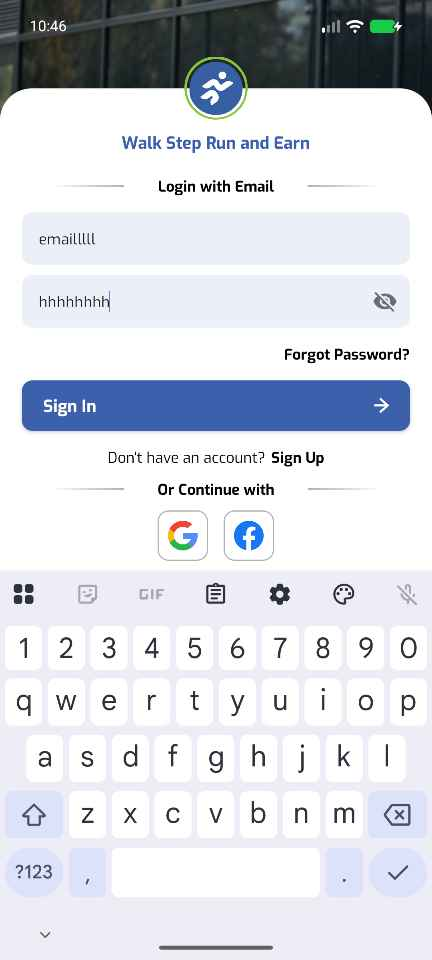
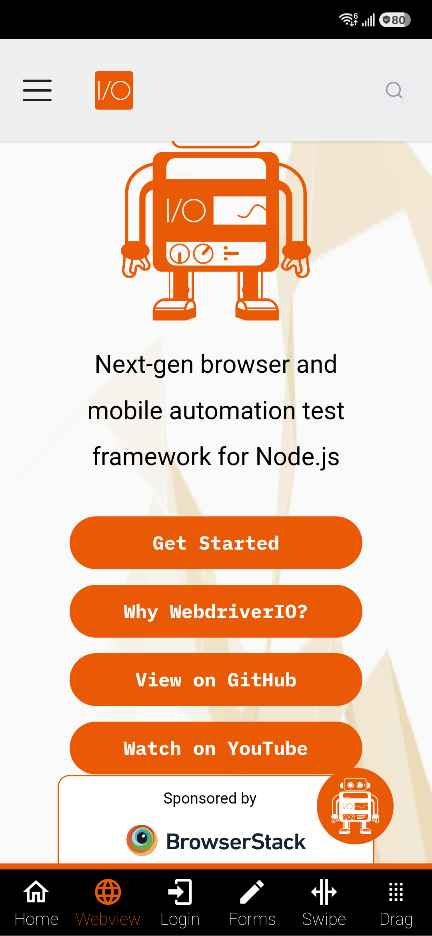
FirstCommit

diff --git a/compile-java-executable/79/testcases/webio.java b/compile-java-executable/79/testcases/webio.java
@@ -1,0 +1,34 @@
+import io.testgrid.listeners.TestListener;
+import io.testgrid.listeners.RetryFailedTestCases;
+import io.testgrid.tg;
+import org.testng.annotations.*;
+import app.getxray.xray.testng.annotations.XrayTest;
+import io.testgrid.enums.ComparisonType;
+import org.json.JSONObject;
+import io.testgrid.enums.Direction;
+import io.testgrid.enums.Size;
+import io.testgrid.enums.Buttons;
+import static io.testgrid.baseClass.driver;
+import org.openqa.selenium.*;
+import io.testgrid.enums.Alert;
+import io.appium.java_client.android.AndroidDriver;
+import io.appium.java_client.ios.IOSDriver;
+import org.testng.annotations.Test;
+
+@Listeners(TestListener.class);
+public class webio {
+
+	@Test(retryAnalyzer = RetryFailedTestCases.class)
+	public void webio() {
+		tg.openDevice();
+				tg.wait("ele_WebviewTextView1788174210003", ComparisonType.IS_VISIBLE);
+				tg.click("ele_WebviewTextView1788174210003", 1);
+				tg.wait(1);
+				tg.swipe(Direction.UP);
+				tg.wait(1);
+				tg.wait("ele_GetStarted", ComparisonType.IS_VISIBLE);
+				tg.click("ele_GetStarted", 1);
+				tg.wait(3);
+		tg.close();
+	}
+}
